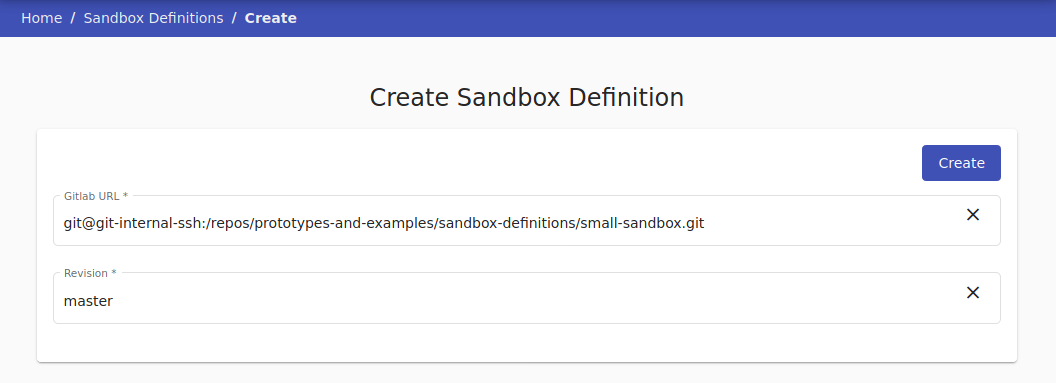
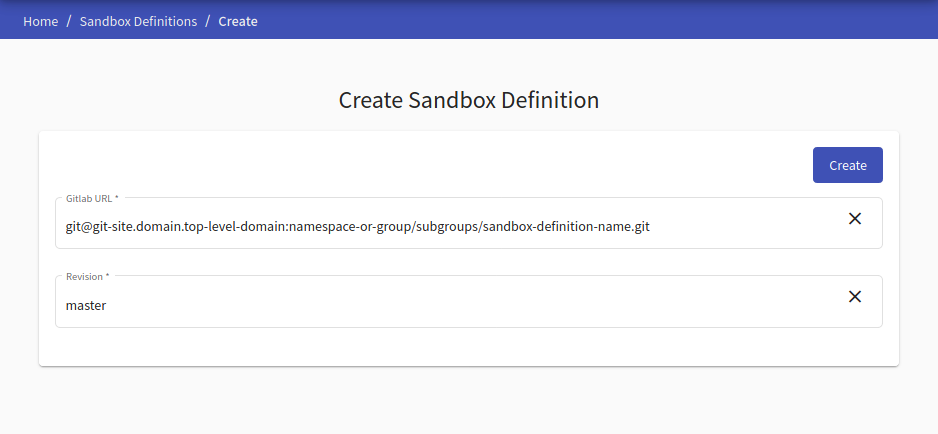
Resolve "Modify the pages in the section User Guide (Basic)"

diff --git a/docs/user-guide-basic/training-agenda/training-definition.md b/docs/user-guide-basic/training-agenda/training-definition.md
@@ -100,7 +100,7 @@ In the first panel of the training definition editor, the instructor can edit fi
 </p>
 
 #### Edit Authors Panel
-In the second panel of training definition editor, the instructor can add and remove authors from this definition.
+In the second panel of training definition editor, the instructor can add and remove authors from the definition.
 
 <p align="center">
   <img src="../../../img/user-guide-basic/training-agenda/training-definition/TD-edit-authors.png">
@@ -123,13 +123,13 @@ To add a new level the instructor can click ![Add-button](../../img/buttons/add-
     To change the order of levels, use drag-and-drop mechanism. Select a level in level bar by "grabbing" it and dragging it to a different position.
 
 ##### I. Game Level
-At the game level, a player can access a virtual network inside the sandbox to find a solution to the problem assigned by level content. The instructor can fill this form to specify details of the new level (when the instructor is done editing level they must save changes with the ![save](../../img/buttons/save-button.png) button.
+At the game level, a trainee can access a virtual network inside the sandbox to find a solution to the assignment. The instructor can fill this form to specify details of the new level (when the instructor is done editing level they must save changes with the ![save](../../img/buttons/save-button.png) button.
 
 <p align="center">
   <img src="../../../img/user-guide-basic/training-agenda/training-definition/TD-GL-panel.png">
 </p>
 
-Under the game level editing form, there is a fourth additional panel that the instructor can use to create, delete and, edit **hints** that are associated with a given game level.
+Under the game level editing form, there is a fourth additional **Hints** panel that the instructor can use to create, delete and, edit hints that are associated with a given game level.
 
 <p align="center">
   <img src="../../../img/user-guide-basic/training-agenda/training-definition/TD-hint-panel.png">
@@ -142,7 +142,7 @@ A new hint can be added with the ![add-button](../../img/buttons/add-button.png)
 </p>
 
 ##### II. Assessment Level
-In the assessment level, the players answer a list of questions. Content of this level can be edited with the following form (when the instructors finish the editing of this level they must save changes with the ![save](../../img/buttons/save-button.png) button:
+In the assessment level, the trainees answer a list of questions. Content of this level can be edited with the following form (when the instructors finish the editing of this level they must save changes with the ![save](../../img/buttons/save-button.png) button:
 
 <p align="center">
   <img src="../../../img/user-guide-basic/training-agenda/training-definition/TD-AL-panel.png">
@@ -160,26 +160,26 @@ The instructor can choose to create a test or questionnaire, so the creation of 
   <img src="../../../img/user-guide-basic/training-agenda/training-definition/TD-question.png">
 </p>
 
-Each type has its specific editing form (when the instructors finish the questions they must save changes with the ![save](../../img/buttons/save-button.png) button):
+Each type has its specific editing form. Each change that has been made must be saved with the ![save](../../img/buttons/save-button.png) button.
 
 <p align="center">
   <img src="../../../img/user-guide-basic/training-agenda/training-definition/TD-questions-edit.png">
 </p>
 
 ##### III. Info Level
-In the info level the player can only read content specified by the instructor in the following form:
+In the info level the trainees read the content of the information written by the instructor in the following form:
 
 <p align="center">
   <img src="../../../img/user-guide-basic/training-agenda/training-definition/TD-IL-panel.png">
 </p>
 
 
-### 2. Upload a Definition From Json File
-To upload a training definition the instructor can click in the **Training Definition Overview** on the top right ![upload-button](../../img/buttons/upload-button.png) button. This will open the following window:
+### 2. Upload a Definition From JSON File
+To upload a training definition, click in the **Training Definition Overview** on the top right ![upload-button](../../img/buttons/upload-button.png) button. This will open the following window:
 
 <p align="center">
   <img src="../../../img/user-guide-basic/training-agenda/training-definition/TD-upload-panel.png">
 </p>
 
 
-The instructor can upload training definitions that were stored in the JSON file. This use-case is useful in the situation when the instructor wants to re-use the training definition stored in the past.
+Upload training definition that has been downloaded as a file in JSON format. This use-case is useful in the situation when the instructor wants to re-use the training definition stored in the past.

diff --git a/docs/user-guide-basic/administration-agenda/groups.md b/docs/user-guide-basic/administration-agenda/groups.md
@@ -1,8 +1,8 @@
 This section is used to list all groups created in the KYPO platform. Groups are essential to the user-access, as the access roles are not assigned to specific users but to groups. The user acquires access to the KYPO portal agendas based on the roles of the groups they belong to.
 
-![group-overview](/img/user-guide-basic/administration-agenda/group-overview.png) 
+![group-overview](../../img/user-guide-basic/administration-agenda/group-overview.png) 
 
-To create a new group, the administrator must click on ![create-button](/img/buttons/create-button.png) button that redirects him to the page [Create Group](#create-or-edit-group). The last column of the table contains actions :material-pencil:{: .icon .blue } &nbsp; :material-delete:{: .red .icon }: 
+To create a new group, the administrator must click on ![create-button](../../img/buttons/create-button.png) button that redirects him to the page [Create Group](#create-or-edit-group). The last column of the table contains actions :material-pencil:{: .icon .blue } &nbsp; :material-delete:{: .red .icon }: 
 
 
 ??? pencil "Edit"
@@ -20,7 +20,7 @@ To create a new group, the administrator must click on ![create-button](/img/but
     After confirming, the group will be deleted from the KYPO portal.
     
     !!! info
-        Multiple groups can be deleted by checking groups with checkboxes situated on the left side of the table row and by clicking on ![delete-button](/img/buttons/big-delete-button.png) button.
+        Multiple groups can be deleted by checking groups with checkboxes situated on the left side of the table row and by clicking on ![delete-button](../../img/buttons/big-delete-button.png) button.
 
 
 ## Create or Edit Group
@@ -42,11 +42,11 @@ During the creation of a group, the second and third panels are disabled. To mak
 2. ![create-and-edit-button](../../img/buttons/create-and-continue-button.png) that will stay on the page and allow the administrator to edit **members** and **roles** of the group.
 
 ### 1. Create/Edit Group
-Here, the administrator is required to fill up all the necessary fields before creating a new group. The `Expiration Date` field is optional and is useful in the cases when the administrator will create a group of instructors, e.g., for a particular semester. After filling up fields, click on the ![create-button](/img/buttons/create-button.png) button to save the group. Then panels **Edit members** and **Edit roles** will be rolled down. 
+Here, the administrator is required to fill up all the necessary fields before creating a new group. The `Expiration Date` field is optional and is useful in the cases when the administrator will create a group of instructors, e.g., for a particular semester. After filling up fields, click on the ![create-button](../../img/buttons/create-button.png) button to save the group. Then panels **Edit members** and **Edit roles** will be rolled down. 
 
 ![create-group-panel](../../img/user-guide-basic/administration-agenda/create-group.png)
 ### 2. Edit Members
-Here, the administrator can add users individually or import all users from the group. The part **Add users** provide an easy way to search for users whose administrator would like to add to the group. Administrators can also add all users from the specific group in the part **Import users**. Click on the ![add-button](/img/buttons/add-button.png) button to add selected users to the group. All users will be added to the group and will be present in the list in the part **Members of group**. A user or multiple users can be removed via the common way mentioned before.
+Here, the administrator can add users individually or import all users from the group. The part **Add users** provide an easy way to search for users whose administrator would like to add to the group. Administrators can also add all users from the specific group in the part **Import users**. Click on the ![add-button](../../img/buttons/add-button.png) button to add selected users to the group. All users will be added to the group and will be present in the list in the part **Members of group**. A user or multiple users can be removed via the common way mentioned before.
 
 ![edit-members-panel](../../img/user-guide-basic/administration-agenda/edit-members.png)
 ### 3. Edit Roles 

diff --git a/docs/user-guide-basic/overview.md b/docs/user-guide-basic/overview.md
@@ -14,11 +14,11 @@ Then the User Guide (Basic) section then serves as a manual on how to operate al
 
 Access to KYPO Portal depends a lot on the role you hold as a user. There are three main roles we differentiated and depending on them you can access different pages of agendas and perform various functionalities in the KYPO Portal.
 
-* **Trainees:** Everybody who has access to the KYPO Portal and is interested in participating in the training can perform actions inside of the [Traning run](../training-agenda/training-run).
-* **Instructors:** Users who are responsible for preparing and creating trainings and corresponding sandboxes can access the following pages: 
+* **[Trainees](#trainees-view):** Everybody who has access to the KYPO Portal and is interested in participating in the training can perform actions inside of the [Traning run](../training-agenda/training-run).
+* **[Instructors](#instructors-view):** Users who are responsible for preparing and creating trainings and corresponding sandboxes can access the following pages: 
     * [Training definitions](../training-agenda/training-definition) and [Training instances](../training-agenda/training-instance) for overview and management of trainings. 
     * [Sandbox definitions](../sandbox-agenda/sandbox-definition) and [Pools](../sandbox-agenda/pool) needed for management of sandboxes, and [Resources](../sandbox-agenda/resources) for cloud resources overview.
-* **Administrators:** Users who are responsible for managing the whole KYPO CRP instance. They have access to every above-mentioned page in the KYPO Portal. Moreover, they can also have the rights to manage entities like users, groups, and microservices in [Administration Agenda](../administration-agenda/administration-agenda-overview). 
+* **[Administrators](#administrators-view):** Users who are responsible for managing the whole KYPO CRP instance. They have access to every above-mentioned page in the KYPO Portal. Moreover, they can also have the rights to manage entities like users, groups, and microservices in [Administration Agenda](../administration-agenda/administration-agenda-overview). 
 
 !!! note
     See the page [Roles](../../user-guide-advanced/users-and-groups/roles) for a better explanation of the meaning of roles.
@@ -42,18 +42,18 @@ After a successful login, the home page of the KYPO Portal contains the elements
 
 
 
-### Trainee's Point of View
+### Trainee's View
 Each trainee will be after a successful log-in directly redirected to the [Training Run Overview](../training-agenda/training-run/#training-runs-overview) page. 
 
 ![KYPO-home-page-trainee](../img/user-guide-basic/KYPO-home-page-trainee.png)
 
 
-### Instructor's Point of View
+### Instructor's View
 The instructor can access both Trainings Agenda and Sandboxes Agenda. 
 
 ![KYPO-home-page-trainee](../img/user-guide-basic/KYPO-home-page-instructor.png)
 
-### Administrator's Point of View 
+### Administrator's View 
 
 An administrator can access any page. 
 

diff --git a/docs/user-guide-basic/login-and-logout.md b/docs/user-guide-basic/login-and-logout.md
@@ -1,11 +1,11 @@
 ## Login
 
-Access the KYPO Portal via the web browser entering the page address, e.g. [https://hostname.domain.cz](https://hostname.domain.cz). Users can log in to the KYPO CRP using one OIDC provider. There can be more than one, depends on how many OIDC providers you have configured. Any provider which is using OpenID Connect specification can be used, e.g. [MUNI Unified Login](https://it.muni.cz/en/services/jednotne-prihlaseni-na-muni/navody/how-to-connect-a-service-to-muni-unified-login). If you don't have an OIDC provider you can use the local OIDC provider which is part of the KYPO Platform. In this case, users must be registered by the administrator of the KYPO Platform, who will provide a username and password to users. If you have more than one OIDC provider, you can select a preferable login option.
+Enter a URL of the KYPO CRP to your web browser to navigate to the KYPO Portal web page. Log in using one of the available OIDC providers. If you have to use a local OIDC provider **(local issuer)** which is a part of the KYPO CRP, the administrator must provide credentials (username and password) to you.
 <p align="center">
   <img height="130" src="../../img/user-guide-basic/login-and-logout/login-muni-or-local-issuer.png">
 </p>
 
-This will redirect you to the selected OIDC provider, in the case of a local OIDC provider, the login page would be as follows: 
+This will redirect you to the selected OIDC provider to sign in. In the case of a local OIDC provider, the login page would be as follows: 
 
 ![csirt-mu-issuer](../img/user-guide-basic/login-and-logout/local-oidc-provider-login-window.png)
 

diff --git a/docs/user-guide-basic/administration-agenda/users.md b/docs/user-guide-basic/administration-agenda/users.md
@@ -1,3 +1,3 @@
-This section is used to list all users that had logged into the KYPO platform using arbitrary OIDC Provider (MUNI, KYPO, ...). In the following table, each row represents one user. An administrator can view their roles by clicking the expand button :material-chevron-down:{: .grey .icon } (next to the name of the user) that expands the row with the list of roles of a particular user. One user can be deleted by clicking on delete button :material-delete:{: .red .icon } or multiple users can be deleted by checking users with checkboxes situated on the left side of the row and clicking the ![delete-button](/img/buttons/big-delete-button.png) button.  
+This section is used to list all users that had logged into the KYPO platform using arbitrary OIDC Provider (local issuer, MUNI, ...). In the following table, each row represents one user. An administrator can view their roles by clicking the expand button :material-chevron-down:{: .grey .icon } (next to the name of the user) that expands the row with the list of roles of a particular user. One user can be deleted by clicking on delete button :material-delete:{: .red .icon } or multiple users can be deleted by checking users with checkboxes situated on the left side of the row and clicking the ![delete-button](../../img/buttons/big-delete-button.png) button.  
 
 ![user-overview](../../img/user-guide-basic/administration-agenda/users-overview.png)

diff --git a/docs/user-guide-basic/training-agenda/training-run.md b/docs/user-guide-basic/training-agenda/training-run.md
@@ -2,7 +2,7 @@
 This page consists of two panels: 
 
 1. [**Access Training**](#1-access-training)
-2. [**Table with the list of training runs**](#2-table-with-the-list-of-training-runs) 
+2. [**Training Runs**](#2-training-runs) 
 
 <p align="center">
   <img src="../../../img/user-guide-basic/training-agenda/training-run/TR-overview.png">
@@ -14,7 +14,7 @@ Enter the access token prefix and PIN provided by the instructor of the training
 !!! note
     If trainee already accessed training run in particular training instance and haven't finished it yet, the training run will be resumed. 
 
-### 2. Table With the List of Training Runs
+### 2. Training Runs
 Lists all training runs of the logged-in trainee. Each row of the table represents a training run of a particular training instance (trainee can access multiple training runs within training instance). The training run can be unfinished or finished. An unfinished run can be resumed using the :material-launch:{: .blue .icon} button or entering the access token in the Access Training panel.   
 A trainee can view the results of the finished training run by clicking the :material-poll-box:{: .blue .icon} button.  
 

diff --git a/docs/user-guide-basic/sandbox-agenda/resources.md b/docs/user-guide-basic/sandbox-agenda/resources.md
@@ -8,7 +8,7 @@ Resources Overview consist of two panels:
 ### 1. Usage Statistics of Cloud Server
 * **kypo-platform-testing**: the name of a cloud server,
 * **Instances**: Created VMs in cloud server,
-* **VCPUs**: Virtual CPUs currently in use by all instances,
+* **vCPUs**: Virtual CPUs currently in use by all instances,
 * **RAM**: The amount of the main memory currently in use by all instances.
 
 ![usage-statistics](../../img/user-guide-basic/sandbox-agenda/resources/usage-stats.png)
@@ -20,7 +20,7 @@ Provides a list of available OS images that can be installed on VMs. Each row co
 * **Default User**: User used to login to VM, or connect via SSH.
 * **Updated At**: Last time image was updated.
 * **Min Disk**: Minimum amount of disk memory to boot image, in gigabytes.
-* **Min Ram**: Minimum amount of main memory to boot image, in megabytes.
+* **Min RAM**: Minimum amount of main memory to boot image, in megabytes.
 * **Status**
 * **Visibility**: Public, private, community, shared.
 

diff --git a/docs/user-guide-basic/sandbox-agenda/sandbox-agenda-overview.md b/docs/user-guide-basic/sandbox-agenda/sandbox-agenda-overview.md
@@ -5,7 +5,7 @@ The purpose of the Sandbox Agenda is to create and manage sandbox definitions, p
 
 * **[Pool](pool.md)** section is used to create Pools from Sandbox definitions and manage created Pools. 
 
-* **[Resources](resources.md)** section is used to display available Instances, VCPUs and RAM in cloud service. It also provides a list of available OS images.
+* **[Resources](resources.md)** section is used to display available Instances, vCPUs and RAM in cloud service. It also provides a list of available OS images.
 
 To access the above-mentioned pages, click the respective button on the front page of the KYPO portal. 
 

diff --git a/docs/user-guide-basic/sandbox-agenda/sandbox-definition.md b/docs/user-guide-basic/sandbox-agenda/sandbox-definition.md
@@ -8,7 +8,7 @@ Before creating a sandbox, the topology of the sandbox and user configuration of
 
 The page in the KYPO portal contains only one panel with two required fields: 
 
-* **GitLab URL**: Git clone SSH URL of sandbox definition, 
+* **Git URL**: Git clone SSH URL of the sandbox definition. See the picture below.
 * **Revision**: A revision parameter typically, but not necessarily, names a commit object (mostly master).
 
 If these fields are correct, a new sandbox definition is created by clicking the ![create-button](../../img/buttons/create-button.png) button. 
